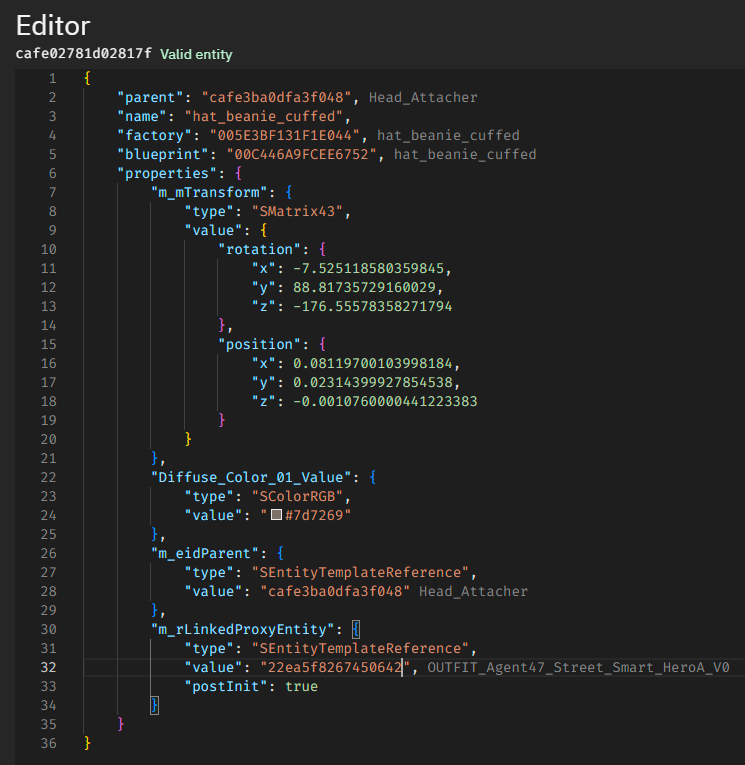
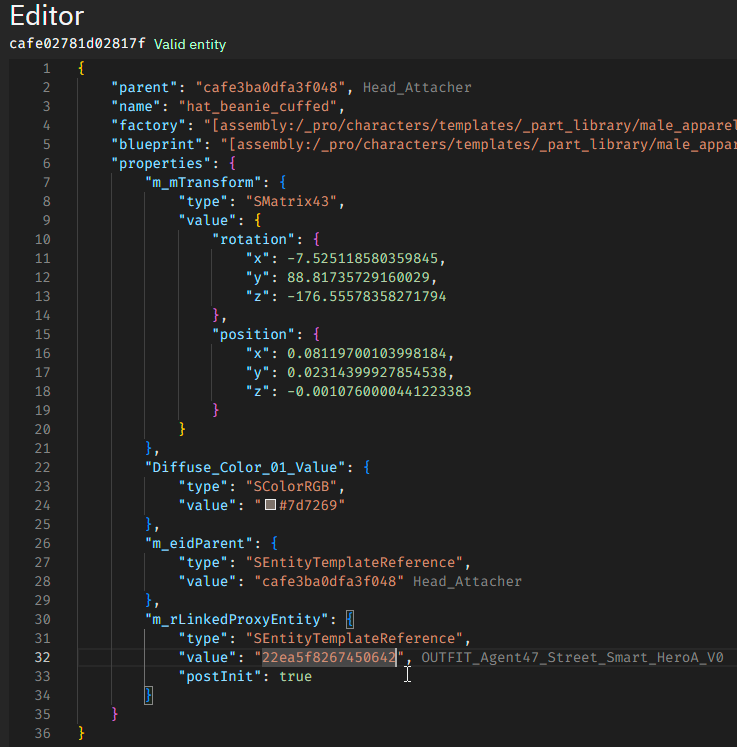
Minor tweaks (#41)
* Hooray we have the hashlist. Update newoutfit.md with this information.

* Please enable file extensions

* Basic Retexture: Prefer to use GlacierKit not RPKG

* Housekeeping

- Refer to GlacierKit and not RPKG Tool
- Prefer to search the agent47_outfits.template? folder instead of a Google Spreadsheet
- Minor other corrections and changes

diff --git a/docs/modding/suitmodding/basicretexture.md b/docs/modding/suitmodding/basicretexture.md
@@ -7,7 +7,7 @@ description: Basic Retexture
 
 For this tutorial, we will go over a basic texture override for a suit. In broad steps, this is what we will do:
 
--   Extract the texture we're looking for with RPKG Tool
+-   Extract the texture we're looking for with GlacierKit
 -   Convert the texture to a workable .tga with TonyTools
 -   Make our changes to the texture
 -   Come up with a new hash for our texture (so we don't overwrite stock assets; that's bad practice!)
@@ -24,70 +24,69 @@ The diffuse map can basically be said to be the base color of the model. The spe
 
 ## Extract Texture
 
-Begin by opening RPKG Tool and importing your `Runtime` folder. You do this by clicking **Import** -> **Import RPKGs Folder**, and there navigate to your Hitman: World of Assassination install directory and find the `Runtime` folder. Give it a second for the RPKGs to load, and you will now be in the resource view and should see the list of opened file archives.
+Begin by opening GlacierKit. Go to the **Game content** tab, 2nd from the top that looks like an archive box.
 
-Now we need to find the suit that we're looking for. Please refer to [HMBM47's outfit spreadsheet](https://docs.google.com/spreadsheets/d/e/2PACX-1vRDiyiqdRebu0Olvvkr20CDhh6ANxu7FOQZ_O-1YHFN9e6kh0WmpbwDYbfgzevSvc3fO4_4Exu1fmQH/pubhtml#) and you may want to bookmark it in your browser if you plan to spend any length of time modding suits.
+Now we need to find the suit that we're looking for. You can find all of 47's outfits in GlacierKit by opening the **Game content** tab and searching for `agent47_outfits.template?`. This folder contains all of 47's outfits.
 
-Click the tab **chunk0 47 Base Suits** in the spreadsheet and find the **Casual Suit with Gloves** toward the top of the spreadsheet. This is the suit we will be working on for the purposes of this tutorial. More specifically, find its template hash, - `TEMP` -, which the spreadsheet tells us is `00B2741A27743D8D`.
+For this tutorial we will be focusing on the Casual Suit with Gloves which in the files is called `outfit_agent47_bangkok_gloves_heroa_v0.entitytemplate`. Scroll past all the charsets in the list to find it.
 
 :::caution Actor and HeroA
 
-Looking at the spreadsheet, you will find two versions of the suit: one marked in blue called Actor and one marked in red called HeroA. You will always want to edit the HeroA version; this is the suit you actually wear for gameplay. The Actor version is used for cutscenes and things of that nature.
+In the list, you will find two versions of the suit: one called *actor* and one called *heroa*. You will always want to edit the HeroA version; this is the suit you actually wear for gameplay. The Actor version of an outfit is used for NPCs, cutscenes and things of that nature.
 
 :::
 
-In RPKG Tool, click **Search** and paste the `TEMP` hash into the **Search string** box. Wait for a moment, and the tool will search the archives. Expand the last patch of chunk0 in the results, and you will find the `TEMP` file. Click it.
+In GlacierKit paste the `TEMP` hash into the **Search game files...** box. Wait for a moment, and you will find the `outfit_agent47_bangkok_gloves_heroa_v0.entitytemplate` file. Click it.
 
-The `Details` screen on the right side will show information about the file you've selected. Under `Depends on 60 other hash files/resources:`, you will find everything the template file makes use of, including the texture we're looking for.
+The `References` tab on the right side will show information about the file you've selected. You will find everything the template file makes use of, including the texture we're looking for.
 
 :::info Assembly Paths
 
-What you are seeing is a list of obfuscated hashes and their decoded **assembly paths**—basically, where they are in IOI's internal filing system. Not all hashes have been decoded to assembly paths, so you'll sometimes just see a hash and a filetype. So you have no way of knowing what the file is until you search for it and examine it yourself.
+What you are seeing is a list of obfuscated hashes and their decoded **assembly paths**—basically, where they are in IOI's internal filing system.
 
 :::
 
-The file we are looking for **does** have a decoded path, so we can find it simply by reading the list. The file in question is `00E99B14303AC484.TEXT 5F [assembly:/_pro/characters/assets/hero/agent47/textures/male_reg_agent47_bangkok_shirt.texture?/diffuse_a.tex](ascolormap).pc_tex`, and this is the diffuse texture we want. Copy the hash and search for it, just like you searched for the `TEMP` file.
+The file we are looking for is `00E99B14303AC484.TEXT 5F [assembly:/_pro/characters/assets/hero/agent47/textures/male_reg_agent47_bangkok_shirt.texture?/diffuse_a.tex](ascolormap).pc_tex`, and this is the diffuse texture we want. You should find this a little more than halfway down the list. Click it when you find it.
 
-Find `00E99B14303AC484.TEXT` in the search results, right-click it, and choose **EXTRACT 00E99B14303AC484.TEXT**. Place it somewhere that's easy to get to. RPKG tool will also export a meta file along with it; you can delete that later as we won't need it.
+![The shirt diffuse texture opened](/img/suitmodding/basicretexture/shirt_texture.png)
 
-We're not completely done yet; look in the `Details` screen, specifically what the `TEXT` depends on.
+Click **Extract file**. Place it somewhere that's easy to get to. GlacierKit will also export a meta file along with it; you can delete that as we won't need it.
 
-```
-Depends on 1 other hash files/resources:
-  - 0091D8EF5EAF2E40.TEXD 9F [assembly:/_pro/characters/assets/hero/agent47/textures/male_reg_agent47_bangkok_shirt.texture?/diffuse_a.tex](ascolormap).pc_mipblock1
-```
+We're not completely done yet; look in the `References` tab, and you will find a `TEXD` file as well.
 
-We will also need to export this `TEXD` file. Glacier 2's textures always come in pairs: the `TEXT` contains a scaled down version of the texture for fast streaming and the `TEXD` contains the full sized texture, both files have their own [mipmaps](https://en.wikipedia.org/wiki/Mipmap). HMTextureTools will still need both files as the `TEXT` file contains important metadata which the `TEXD` lacks. Extract this TEXD right next to its TEXT in the folder.
+We will also need to export this `TEXD` file. Glacier 2's textures always come in pairs: the `TEXT` contains a scaled down version of the texture for fast streaming, and the `TEXD` contains the full sized texture, both files have their own [mipmaps](https://en.wikipedia.org/wiki/Mipmap). HMTextureTools will still need both files as the `TEXT` file contains important metadata which the `TEXD` lacks. Extract this TEXD right next to its TEXT in the folder.
 
 ## Convert the Texture to .tga
 
-For this step we will be using `HMTextureTools.exe` from TonyTools to convert our `TEXT` and `TEXD` to a format we can actually work with: TARGA.
+For this step we will be using `HMTextureTools.exe` from TonyTools, to convert our `TEXT` and `TEXD` to a format we can actually work with: TARGA.
 
 HMTextureTools is a **command-line interface program**, meaning it does **not have a user interface** and simply running the .exe will do nothing. You will need to open the Command Prompt in the TonyTools folder or create a `.BAT` file in the TonyTools folder. This is an **example** of the command you should run:
 
 ```batch
-HMTextureTools.exe convert H3 "c:\path\to\00E99B14303AC484.TEXT" --texd "c:\path\to\0091D8EF5EAF2E40.TEXD" "c:\path\to\00E99B14303AC484~0091D8EF5EAF2E40.texture.tga"
+HMTextureTools.exe convert H3 "c:\My Extracted Files\00E99B14303AC484.TEXT" --texd "c:\My Extracted Files\0091D8EF5EAF2E40.TEXD" "c:\My Extracted Files\00E99B14303AC484~0091D8EF5EAF2E40.texture.tga"
 ```
 
-Here, we specify to HMTextureTools that we are **converting** a Hitman 3 asset. We specify first the path to the .TEXT file (of course, you should change the paths to where the file is on your system!) Second, we flag that we also have a TEXD and give the path to that file. And finally, we specify the output, which is a TGA file.
+Please make sure to change the paths to where the files are on your system.
+
+Here, we specify to HMTextureTools that we are **converting** a Hitman 3 asset. We specify first the path to the .TEXT file. Second, we flag that we also have a TEXD and give the path to that file. And finally, we specify the output, which is a TGA file.
 
 You will notice that we name the TGA file according to this format: `TEXT hash`~`TEXD hash`.texture.tga
 
-This is by design; Simple Mod Framework has the capability to convert the .tga **back** to a `TEXT` and `TEXD`, using the information in the filename, which includes the .texture.tga ending. This saves us the trouble of having to do that ourselves as mod creators.
+This will let Simple Mod Framework convert the .tga **back** to a `TEXT` and `TEXD` pair, using the information in the filename, which includes the .texture.tga ending. This saves us the trouble of having to do it ourselves as mod creators.
 
-HMTextureTools will also produce a .tonymeta file. Rename the extension to .meta and we will be ready to move on.
+HMTextureTools will also produce a .tonymeta file. Rename this extension to .meta and we will be ready to move on.
 
 ## Edit the .tga
 
-Open the .tga in your favorite image editing program and get creative. Save it when you're done.
+Open the .tga in your favorite image editing program and get creative. Edit it to your hearts content and save it when you're done.
 
 ## Make up New Hashes
 
 Now we have the suit's diffuse texture and we've made our changes to it. Is it time to bring it back into the game? Not quite; simply **replacing** stock assets is a dirty way of doing things, and the consequences of doing so can be difficult to anticipate. If it happens that another item in the game uses the texture, things can look really crazy in ways that you didn't intend. The correct procedure is to introduce it to the game as a new texture and edit the outfit to use our new texture.
 
-So we need to figure out a new `TEXT` hash and a new `TEXD` hash. RPKG Tool has something that will help us do that, so open RPKG Tool, click `Utilities`, and choose `Hash Calculator`.
+So we need to figure out a new `TEXT` hash and a new `TEXD` hash. GlacierKit has something that will help us do that, so open GlacierKit, and click the `Text tools` tab, the 2nd from the bottom.
 
-Anything you enter in the left field will be hashed, and the output will be shown in the right field, line by line. Now consider the `TEXT` and `TEXD` we've extracted. Their assembly paths are, respectively:
+Anything you enter in the **Hash calculator** field will be hashed, and the output will be shown in the **Hex** and **Decimal** field. We want the hex number though. Now consider the `TEXT` and `TEXD` we've extracted. Their assembly paths are, respectively:
 
 -   \[assembly:/\_pro/characters/assets/hero/agent47/textures/male_reg_agent47_bangkok_shirt.texture?/diffuse_a.tex](ascolormap).pc_tex
 -   \[assembly:/\_pro/characters/assets/hero/agent47/textures/male_reg_agent47_bangkok_shirt.texture?/diffuse_a.tex](ascolormap).pc_mipblock1
@@ -103,15 +102,15 @@ This means that Simple Mod Framework, when applying the mod, will use this infor
 
 ## Patch the Texture Change in the Outfit
 
-Now that we have an entirely new texture, it's time to use it. Open GlacierKit.
+Now that we have an entirely new texture, it's time to use it.
 
 Let us first set up our mod project. Navigate to your Simple Mod Framework folder and open the `Mods` folder. Create a new folder in here called **MyName.MyCoolShirt**. *(Good convention suggests that you name your mod folders with your username, a period, and the mod's name, no spaces.)* Go into this folder and create a folder called **content**. In the content folder, create a new folder called **chunk0**. All the game's assets are segmented into chunks, it's not important to know right now but if you are curious you can [see this article](../../glacier2/chunkdata.md).
 
 To recap, that folder structure is MyName.MyCoolShirt ➡ content ➡ chunk0.
 
-With GlacierKit started, we will need to select this mod folder. Click the big button labeled **Select a project**. Navigate to the **MyName.MyCoolShirt** folder you just made and select it.
+Open GlacierKit. We will need to select this mod folder. In the **Files** tab at the top, click the big button labeled **Select a project**. Navigate to the **MyName.MyCoolShirt** folder you just made and select it.
 
-Go to the **Game content** tab, second from the top that looks like a box. Remember the hash for the Casual Suit's `TEMP`? That's right, `00B2741A27743D8D`—enter that into the search box and hit enter. In the tree you will find `outfit_agent47_bangkok_gloves_heroa_v0.entitytemplate`, buried in a bunch of folders. Click it and you will see a bunch of information about it. Click the **Open in editor** button.
+Go to the **Game content** tab, second from the top that looks like a box. Remember what the Casual Suit was called? That's right, `bangkok_gloves`—enter that into the search box and hit enter. In the tree you will find `outfit_agent47_bangkok_gloves_heroa_v0.entitytemplate`. Click it and you will see a bunch of information about it. Click the **Open in editor** button.
 
 Expand the root OUTFIT entity in the tree. What you see in the tree is what makes up the outfit. Model parts, material overrides, cloth collisions, and things like that.
 
@@ -227,7 +226,7 @@ Paste the following info into it. If GlacierKit asks for permission to access yo
     "name": "My Cool Shirt",
     "description": "Makes the Casual Suit totally rad.",
     "authors": ["My Name"],
-    "frameworkVersion": "2.33.22",
+    "frameworkVersion": "2.33.27",
     "version": "1.0.0",
     "contentFolders": ["content"]
 }
@@ -239,7 +238,7 @@ If you edit the manifest with GlacierKit or Visual Studio Code, they will use th
 
 :::
 
-`frameworkVersion` is the version of the framework you are currently using. At the time of writing, the latest version is 2.33.22.
+`frameworkVersion` is the version of the framework you are currently using. At the time of writing, the latest version is 2.33.27.
 
 `contentFolders` in the manifest tells Simple Mod Framework what folders will be used for mod content.
 

diff --git a/docs/modding/suitmodding/newoutfit.md b/docs/modding/suitmodding/newoutfit.md
@@ -65,8 +65,6 @@ The outfits' entry in the outfit brick also dictates things like:
 
 There is also a brick called `globaldata`. This is a brick that the game always loads, and it includes important basic gameplay elements. This includes 47's starter outfits and any outfit you can go into a level with.
 
-In previous tutorials we directed you to HMBM47's [Hitman 3 Outfits Spreadsheet](https://docs.google.com/spreadsheets/d/e/2PACX-1vRDiyiqdRebu0Olvvkr20CDhh6ANxu7FOQZ_O-1YHFN9e6kh0WmpbwDYbfgzevSvc3fO4_4Exu1fmQH/pubhtml#) of game outfits, which, while a really good resource, is also a little outdated. If you cannot find an outfit you are looking for in the spreadsheet, try looking in `globaldata`.
-
 ### Character set
 
 As we mentioned the outfit brick references a character set. Often this is shortened to `CHARSET` in the files.
@@ -135,7 +133,7 @@ Feel free to paste the following into your manifest to get started.
     "name": "Street Smart",
     "description": "A Street Smart outfit for 47.",
     "authors": ["My Name"],
-    "frameworkVersion": "2.33.22",
+    "frameworkVersion": "2.33.27",
     "version": "1.0.0",
     "contentFolders": ["content"],
     "blobsFolders": ["blobs"]
@@ -144,7 +142,7 @@ Feel free to paste the following into your manifest to get started.
 
 ## The charset
 
-We carry on by making the suit's charset. We can use IOI's work as a base for this. In the game files tab search for `signaturesuit`.
+We carry on by making the suit's charset. We can use IOI's work as a base for this. In the game files tab search for `signaturesuit`. Under the `characters` folder you can minimize `assets` as we don't want anything in there.
 
 ![Searching for the signature suit charset](/img/suitmodding/newoutfit/search_charset.png)
 
@@ -194,7 +192,15 @@ At this point, our outfit is just the stock signature suit. So let's clean out a
 
 ### Hat
 
-Let's give his cold head a nice warm beanie. In the game content tab, switch the filter from **All** to **Templates**. Then search for `beanie`. You will find a factory - `TEMP` - without a path called hat_beanie_cuffed (005E3BF131F1E044). Let's click that to open its resource overview.
+Let's give his cold head a nice warm beanie. In the game content tab, switch the filter from **All** to **Templates**. Then search for `beanie`. You will get quite a few results. But we want to focus on the `assembly:/_pro/characters/templates/_part_library/male_apparel` folders. You can close any other folders you find.
+
+:::info Parts library
+
+The `_part_library` folder in particular under `templates` is a great resource for clothing. You can find this easily by just searching `library` later on when you want to make your own outfits.
+
+:::
+
+Click `hat_beanie_cuffed.entitytemplate` under the `male_apparel_headwear_prim.template?` folder to open its resource overview.
 
 ![hat_beanie_cuffed resource overview.](/img/suitmodding/newoutfit/beanie_overview.png)
 
@@ -206,7 +212,7 @@ We briefly mentioned this toward the end in the [Patching suits with new parts](
 
 :::
 
-The positioning and scaling for *hats* to look good on 47's head can be very specific, so it would be prudent to copy it from some other HeroA outfit. Click **Reverse dependencies** in the beanie's resource overview and you'll see a list of outfits that uses the beanie. Let's click the first HeroA outfit in the list, which happens to be `outfit_flamingo_worker_journalist_m_heroa_v4`. Open this outfit in the editor.
+The positioning and scaling for *hats* to look good on 47's head can be very specific, so it would be prudent to copy it from some other *HeroA* outfit. Click **Reverse dependencies** in the beanie's resource overview and you'll see a list of outfits that uses the beanie. Let's click the first HeroA outfit in the list, which happens to be `outfit_flamingo_worker_journalist_m_heroa_v4`. Open this outfit in the editor.
 
 Expand the `Head_Attacher` entity, there's our beanie. We don't want the headphones though, so right click them and delete them.
 
@@ -220,7 +226,7 @@ Compare for yourself first. Do you see it?
 
 In `Head_Attacher`, the properties `m_linkedEntity` and `m_eidParent`, and in `hat_beanie_cuffed`, the property `m_rLinkedProxyEntity` have all had their values nulled. Why is that?
 
-Well, these values all pointed to the root entity of the journalist outfit, whose ID was `1351129995b8231f`. This entity doesn't exist in our custom outfit, so GlacierKit nulls these values when pasting the entity. These properties are essential for the attacher and the hat to work, so we will need to supply the ID of our root entity into these values ourselves. As you copy and paste entities back and forth when making mods, take great care that you are hooking up property values correctly after pasting.
+Well, these values all pointed to the root entity of the journalist outfit, whose ID was `1351129995b8231f`. This entity doesn't exist in our custom outfit, so GlacierKit nulls these values when pasting the entity. These properties are *essential* for the attacher and the hat to work, so we will need to supply the ID of our root entity into these values ourselves. As you copy and paste entities back and forth when making mods, *take great care* that you are hooking up property values correctly after pasting. Always compare with the source to see how it's hooked up.
 
 Right click the root `OUTFIT_Agent47_Street_Smart_HeroA_V0` entity and click **Copy ID**.
 
@@ -234,7 +240,9 @@ That's all we need to do for the hat. Save your changes and let's look for a jac
 
 ### Jacket, shirt and hands
 
-Back to the game content tab, again with the filter on **Templates**, search for `jacket_bomber`. Click the first jacket_bomber_open `TEMP` in the list (00ED542C09DFC9F4). This one is also in chunk0, great! You will find that plenty of clothing templates are in chunk0 in fact, IOI did this to make assembling NPCs and outfits easier for themselves.
+Back to the game content tab, again with the filter on **Templates**, search for `jacket_bomber`. You will get quite a few results here, but like before we want to focus on the `assembly:/_pro/characters/templates/_part_library/male_apparel` folders. You can close any other folders you find.
+
+Click `jacket_bomber_open.entitytemplate` under the `male_reg_apparel_torso_l02.template?` folder under `male_apparel`. This one is also in chunk0, great!
 
 Again go into **Reverse references** to see the outfits that make use of the template. Let's click `outfit_raccoon_civilian_bankcustomer_m_actor_v8.entitytemplate` and open that outfit in the editor.
 
@@ -254,11 +262,11 @@ Let's recolor the jacket so it's not a boring beige. Click Jacket_Bomber_Open an
 
 ### Jeans
 
-Let's find a pair of jeans and shoes as well. Again in the game content tab with the filter on **Templates** search for `jeans`.
+Let's find a pair of jeans and shoes as well. Again in the game content tab with the filter on **Templates** search for `jeans`. Once again you can close the `assets` folder and focus on `male_apparel` under `templates/_part_library`.
 
-The second `pants_jeans_skinny (00468CE157B575D3)` in the list will do. The first one, if you examine reverse references, you will notice is for female models, so that won't work.
+`pants_jeans_skinny.entitytemplate` will do.
 
-Let's go into the reverse reference `outfit_fox_worker_tech_m_actor_v1.entitytemplate` and open it in the editor. You know the deal by now. Copy the `Pants_Jeans_Skinny` entity from here, and paste it into our outfit. Do the same for `Shoes_Sneakers_Skate`.
+Let's go into the reverse reference `outfit_fox_worker_tech_m_actor_v1.entitytemplate` and open it in the editor. You know the deal by now. Copy the `Pants_Jeans_Skinny` entity from here, and paste it into our outfit. This outfit has a pair of sneakers as well we can use. So do the same for `Shoes_Sneakers_Skate`.
 
 With that, we are basically done.
 
@@ -573,7 +581,7 @@ Do the same with the path to your description `.sweetline`, replacing `"1"` in t
     "name": "Street Smart",
     "description": "A Street Smart outfit for 47.",
     "authors": ["My Name"],
-    "frameworkVersion": "2.33.22",
+    "frameworkVersion": "2.33.27",
     "version": "1.0.0",
     "contentFolders": ["content"],
     "blobsFolders": ["blobs"],
@@ -612,7 +620,7 @@ Open your outfit file in GlacierKit.
 Copy the following textbox (it is an entity) and paste it into the root `OUTFIT_Agent47_Street_Smart_HeroA_V0` entity by selecting Clipboard and clicking Paste.
 
 ```json
-{"rootEntity":"cafe1c73325d6168","data":{"cafe1c73325d6168":{"parent":"8d2dd8c9d88913be","name":"FX_Hitman_Wet_Logic_Character","factory":"0067CFB703A80787","blueprint":"00AA88C960CD2080","properties":{"HeadMaterialToOverride":{"type":"ZRuntimeResourceID","value":{"resource":"009F7978C601815A","flag":"5F"}},"HeadMaterialOverride":{"type":"TArray<SEntityTemplateReference>","value":[],"postInit":true}},"events":{"HitmanWetness":{"T":["cafeb592e0ab9249","cafedc850188fd63","cafe57b613171dc2","cafee50db419698b"]}}},"cafe57b613171dc2":{"parent":"cafe1c73325d6168","name":"Lerp roughness fabric","factory":"[modules:/zmathlerp.class].pc_entitytype","blueprint":"[modules:/zmathlerp.class].pc_entityblueprint","properties":{"m_A":{"type":"float32","value":1.0},"m_fT":{"type":"float32","value":0.0},"m_B":{"type":"float32","value":2.0}},"events":{"Lerp":{"ConstantVector1D_14_Value":[]}}},"cafedc850188fd63":{"parent":"cafe1c73325d6168","name":"Lerp bumpmap","factory":"[modules:/zmathlerp.class].pc_entitytype","blueprint":"[modules:/zmathlerp.class].pc_entityblueprint","properties":{"m_fT":{"type":"float32","value":0.0},"m_B":{"type":"float32","value":0.30000001192092896}},"events":{"Lerp":{"ConstantVector1D_06_Value":[]}}},"cafee50db419698b":{"parent":"cafe1c73325d6168","name":"Lerp roughness other","factory":"[modules:/zmathlerp.class].pc_entitytype","blueprint":"[modules:/zmathlerp.class].pc_entityblueprint","properties":{"m_B":{"type":"float32","value":0.4000000059604645},"m_A":{"type":"float32","value":0.0},"m_fT":{"type":"float32","value":0.0}},"events":{"Lerp":{"ConstantVector1D_04_Value":[]}}},"cafeb592e0ab9249":{"parent":"cafe1c73325d6168","name":"Lerp albedo","factory":"[modules:/zmathlerp.class].pc_entitytype","blueprint":"[modules:/zmathlerp.class].pc_entityblueprint","properties":{"m_fT":{"type":"float32","value":0.0},"m_B":{"type":"float32","value":0.20000000298023224}},"events":{"Lerp":{"ConstantVector1D_01_Value":[]}}}}}
+{"rootEntity":"cafe1c73325d6168","data":{"cafe1c73325d6168":{"parent":"8d2dd8c9d88913be","name":"FX_Hitman_Wet_Logic_Character","factory":"[assembly:/_pro/effects/templates/water/fx_water_hitman_wet_logic.template?/fx_hitman_wet_logic_character.entitytemplate].pc_entitytype","blueprint":"[assembly:/_pro/effects/templates/water/fx_water_hitman_wet_logic.template?/fx_hitman_wet_logic_character.entitytemplate].pc_entityblueprint","properties":{"HeadMaterialToOverride":{"type":"ZRuntimeResourceID","value":{"resource":"[assembly:/_pro/characters/assets/_sourcefiles/male_reg_heads_unique/materials/male_reg_head_47_s3.mi].pc_mi","flag":"5F"}},"HeadMaterialOverride":{"type":"TArray<SEntityTemplateReference>","value":[],"postInit":true}},"events":{"HitmanWetness":{"T":["cafeb592e0ab9249","cafedc850188fd63","cafe57b613171dc2","cafee50db419698b"]}}},"cafe57b613171dc2":{"parent":"cafe1c73325d6168","name":"Lerp roughness fabric","factory":"[modules:/zmathlerp.class].pc_entitytype","blueprint":"[modules:/zmathlerp.class].pc_entityblueprint","properties":{"m_A":{"type":"float32","value":1.0},"m_fT":{"type":"float32","value":0.0},"m_B":{"type":"float32","value":2.0}},"events":{"Lerp":{"ConstantVector1D_14_Value":[]}}},"cafedc850188fd63":{"parent":"cafe1c73325d6168","name":"Lerp bumpmap","factory":"[modules:/zmathlerp.class].pc_entitytype","blueprint":"[modules:/zmathlerp.class].pc_entityblueprint","properties":{"m_fT":{"type":"float32","value":0.0},"m_B":{"type":"float32","value":0.30000001192092896}},"events":{"Lerp":{"ConstantVector1D_06_Value":[]}}},"cafee50db419698b":{"parent":"cafe1c73325d6168","name":"Lerp roughness other","factory":"[modules:/zmathlerp.class].pc_entitytype","blueprint":"[modules:/zmathlerp.class].pc_entityblueprint","properties":{"m_B":{"type":"float32","value":0.4000000059604645},"m_A":{"type":"float32","value":0.0},"m_fT":{"type":"float32","value":0.0}},"events":{"Lerp":{"ConstantVector1D_04_Value":[]}}},"cafeb592e0ab9249":{"parent":"cafe1c73325d6168","name":"Lerp albedo","factory":"[modules:/zmathlerp.class].pc_entitytype","blueprint":"[modules:/zmathlerp.class].pc_entityblueprint","properties":{"m_fT":{"type":"float32","value":0.0},"m_B":{"type":"float32","value":0.20000000298023224}},"events":{"Lerp":{"ConstantVector1D_01_Value":[]}}}}}
 ```
 
 You should now have an `FX_Hitman_Wet_Logic_Character` entity in the tree.

diff --git a/docs/modding/suitmodding/addingparts.md b/docs/modding/suitmodding/addingparts.md
@@ -18,15 +18,15 @@ And make sure you have enabled the **developer mode** in Simple Mod Framework. T
 
 ## Find a Suit to Modify
 
-We will once again consult [HMBM47's Outfit Spreadsheet](https://docs.google.com/spreadsheets/d/e/2PACX-1vRDiyiqdRebu0Olvvkr20CDhh6ANxu7FOQZ_O-1YHFN9e6kh0WmpbwDYbfgzevSvc3fO4_4Exu1fmQH/pubhtml#) for this. Bookmark it, if you haven't! For this tutorial, we will be modifying the Absolution Suit with Gloves.
+You can find all of 47's outfits in GlacierKit by opening the **Game content** tab and searching for `agent47_outfits.template?`. This folder contains all of 47's outfits.
 
-Click the tab **chunk0 47 Base Suits** in the spreadsheet and find the **Absolution Suit** at the top of the spreadsheet. Write down its `TEMP`, which the spreadsheet tells us is `0075CC9E284E3236`.
+For this tutorial we will be focusing on the Absolution Suit with Gloves which in the files is called `outfit_agent47_absolution_gloves_heroa_v0.entitytemplate`. Scroll past all the charsets in the list to find it.
 
 ## Decide What to Add
 
-Finding accessories, clothing, and so on to use in your outfits can be as easy as finding an outfit in the game, searching for it in GlacierKit and opening its `TEMP`. From there, you can simply copy and paste the part entity to your own outfit. You can also look for the raw models (so-called `PRIM` files) in the RPKG tool.
+Finding accessories, clothing, and so on to use in your outfits can be as easy as finding an outfit in the game, searching for it in GlacierKit and opening the outfit's `template`. From there, you can simply copy and paste the part entity to your own outfit. You can also look for the raw models (so-called `PRIM` files).
 
-However, that is a little advanced for your first time, so for this tutorial, we will be adding a pair of sunglasses to the Absolution Suit. The easiest way to do that would be to copy and paste from another outfit. We will be using the Italian Suit's sunglasses. Look in the outfit spreadsheet again for the Italian Suit; its `TEMP` is `00444A5FE5DDA137`.
+However, that is a little advanced for your first time, so for this tutorial, we will be adding a pair of sunglasses to the Absolution Suit. The easiest way to do that would be to copy and paste from another outfit. We will be using the Italian Suit's sunglasses. In the files the Italian Suit is called `outfit_agent47_sapienza_heroa_v0.entitytemplate`, it can be found further down in the `agent47_outfits.template?` folder in the game files.
 
 ## Open the Source Outfit
 
@@ -36,7 +36,7 @@ To recap, that folder structure is MyName.AbsoSuitGlasses ➡ content ➡ chunk0
 
 With GlacierKit started, we will need to select this mod folder. Click the big button labeled **Select a project**. Navigate to the **MyName.AbsoSuitGlasses** folder you just made and select it.
 
-Now, we will be opening the Italian Suit to copy its sunglasses entity so we can paste it onto the Absolution suit. Go to the **Game content** tab, second from the top that looks like a box. Then, paste in the Italian Suit's `TEMP` hash in the search bar - `00444A5FE5DDA137` - and hit enter. In the tree you will find `outfit_agent47_sapienza_heroa_v0.entitytemplate`, buried in a bunch of folders. Click it and you will see a bunch of information about it. Click the **Open in editor** button.
+Now, we will be opening the Italian Suit to copy its sunglasses entity so we can paste it onto the Absolution suit. Go to the **Game content** tab, second from the top that looks like a box. Then, search for `agent47_outfits.template?`. In the tree if you scroll past all the charsets you will find `outfit_agent47_sapienza_heroa_v0.entitytemplate`. Click it and you will see a bunch of information about it. Click the **Open in editor** button.
 
 In the tree, expand the parent entity named `OUTFIT_Agent47_Sapienza_HeroA_V0`. We're looking for the sunglasses, which can be found lower in the tree. In this case, the entity is named `Part_Glasses`. By clicking on it, the entity's details will appear in the right tab, like this:
 
@@ -62,7 +62,9 @@ In the tree, expand the parent entity named `OUTFIT_Agent47_Sapienza_HeroA_V0`. 
 }
 ```
 
-As you can see, this is a very simple and straight-forward entity with only two properties. `m_IsHiddenInVR` is self-explanatory; VR users shouldn't see the glasses in front of their face. `m_pMeshResource` dictates what model the bodypart entity should use, which in this case is the Italian Suit's aviator sunglasses. By editing the `resource` parameter, you can use any `PRIM` as a body part. The assembly path for the sunglasses has been properly decoded, so we can see it here in the resource key. If it hadn't been decoded, we would be seeing a hash instead.
+As you can see, this is a very simple and straight-forward entity called a *zbodypartentity*. All it does is make sure a model follows a skeleton rig, the rig being defined in the outfit itself.
+
+It has only two properties. `m_IsHiddenInVR` is self-explanatory; VR users shouldn't see the glasses in front of their face. `m_pMeshResource` dictates what model the bodypart entity should use, which in this case is the Italian Suit's aviator sunglasses. By editing the `resource` parameter, you can use any `PRIM` as a body part as long as it's rigged to a skeleton. We can tell by the ending `.pc_weightedprim` that this is a model rigged to a skeleton, or *weighted*.
 
 Nice, this is what we're looking for.
 
@@ -70,7 +72,7 @@ Right-click Part_Glasses in the tree and mouse over **Clipboard**. Click **Copy*
 
 ## Open the Destination Outfit
 
-Now, let's load the Absolution Suit entity. In the game content search bar to the left, enter the Absolution Suit's `TEMP`, `0075CC9E284E3236` and hit enter. Click `outfit_agent47_absolution_gloves_heroa_v0.entitytemplate` in the search results and then click **Open in editor**. The entity will be opened as a new tab.
+Now, let's load the Absolution Suit entity. In the game content search bar to the left, click `outfit_agent47_absolution_gloves_heroa_v0.entitytemplate` in the search results and then click **Open in editor**. The entity will be opened as a new tab.
 
 With the Part_Glasses entity you copied in your clipboard, right-click the root entity `OUTFIT_Agent47_Absolution_Gloves_HeroA_V0`, mouse over **Clipboard** and click **Paste**. Expand the entity and look in the tree, and you should now see Part_Glasses further down.
 
@@ -93,7 +95,7 @@ Paste the following info into it. If GlacierKit asks for permission to access yo
     "name": "Absolution Suit with Glasses",
     "description": "Makes the Absolution Suit much cooler.",
     "authors": ["My Name"],
-    "frameworkVersion": "2.33.22",
+    "frameworkVersion": "2.33.27",
     "version": "1.0.0",
     "contentFolders": ["content"]
 }
@@ -105,7 +107,7 @@ If you edit the manifest with GlacierKit or Visual Studio Code, they will use th
 
 :::
 
-`frameworkVersion` is the version of the framework you are currently using. At the time of writing, the latest version is 2.33.22.
+`frameworkVersion` is the version of the framework you are currently using. At the time of writing, the latest version is 2.33.27.
 
 `contentFolders` in the manifest tells Simple Mod Framework what folders will be used for mod content.
 
@@ -130,15 +132,15 @@ And that is how to patch an outfit to add new body parts. Of course, as you can 
 
 ## Addendum
 
-If you have any doubts or difficulties with adding certain things to your outfits, the best question you can ask is, _"how are IOI doing it?"_ You can learn a lot by opening `TEMP` files in GlacierKit and studying the makeup of the outfit. Do not be afraid to open the game content tab, search for an outfit, and study any `TEMP` files you find.
+If you have any doubts or difficulties with adding certain things to your outfits, the best question you can ask is, _"how are IOI doing it?"_ You can learn a lot by opening `template` files in GlacierKit and studying the makeup of the outfit. Do not be afraid to open the game content tab, search for an outfit, and study any `template` files you find.
 
-Something else you can do is open RPKG Tool and search for `PRIM` files named after articles of clothing, such as jacket, shirt, pants, shoes, etc. From there, you can select a `PRIM` that seems interesting, and in the 3D Viewer tab, you can see what the clothing looks like, and if you want to incorporate it into an outfit, you can see how IOI implemented the model by looking at the reverse hash depends in the Details tab. Under the reverse hash depends, you should see a list of `TEMP` outfit files. By opening any of them in GlacierKit and looking in the tree, you can find the clothing's entity.
+Something else you can do is search for models named after articles of clothing, such as jacket, shirt, pants, shoes, etc. From there, you can select a model that seems interesting, and in the preview, you can see what the clothing looks like, and if you want to incorporate it into an outfit, you can see how IOI implemented the model by looking at the **Reverse references**. You should see a list of outfit files. By opening any of them and looking in the tree, you can find the clothing's entity.
 
-In seasons 2 and 3 of Hitman, IO switched to a more templated model of building outfits. Rather than having a body part entity in the outfit pointing to a model, they will usually have an entity pointing to a jacket template, which contains the model, cloth collisions, materials, and many other things, all in one, to streamline their development of outfits.
+In seasons 2 and 3 of Hitman, IO switched to a more templated model of building outfits. Rather than having a body part entity in the outfit pointing to a model, they will usually have an entity pointing to a jacket template, which contains the model, cloth collisions, materials, and many other things, all in one, to streamline their development of outfits. These can by and large be found under the `assembly:/_pro/characters/templates/_part_library/` folder.
 
 It is also worth mentioning that seasons 2 and 3 have a different skeleton compared to season 1. So, introducing models from season 1 to an outfit built on a season 2 or 3 skeleton, or vice versa, will look completely bizarre and broken. There are ways to get around that by converting the model to a new skeleton with [Rebone](../../rebone.md), but that is for advanced users.
 
-And one final note on `PRIM` files: any body parts that you put into your outfit **must be in chunk0** or the game will experience crashes. You can read more about how chunks work [here](../../glacier2/chunkdata.md), but the gist of it is that anything you can wear in a starter suit needs to be in chunk0 for the game to be able to use it on all maps. If you find a model that you really, really want to use for an outfit that just isn't in chunk0, there's still hope. You simply need to add a `dependencies` key to your manifest that tells SMF to move that file to chunk0 when you apply the mod. You just need to add all the hashes you want to move, like this:
+And one final note on models and templates: any body parts that you put into your outfit **must be in chunk0** or the game will experience crashes. You can read more about how chunks work [here](../../glacier2/chunkdata.md), but the gist of it is that anything you can wear in a starter suit needs to be in chunk0 for the game to be able to use it on all maps. If you find a model that you really, really want to use for an outfit that just isn't in chunk0, there's still hope. You simply need to add a `dependencies` key to your manifest that tells SMF to move that file to chunk0 when you apply the mod. You just need to add all the hashes you want to move, like this:
 
 ```json
 {
@@ -147,7 +149,7 @@ And one final note on `PRIM` files: any body parts that you put into your outfit
     "name": "Absolution Suit with Glasses",
     "description": "Makes the Absolution Suit much cooler.",
     "authors": ["My Name"],
-    "frameworkVersion": "2.33.22",
+    "frameworkVersion": "2.33.27",
     "version": "1.0.0",
     "contentFolders": ["content"],
     "dependencies": ["0049F083DC18CC1F", "00087BEFE0EFFF66"] // <----- Right here!

diff --git a/docs/modding/suitmodding/index.md b/docs/modding/suitmodding/index.md
@@ -21,3 +21,5 @@ This is a list of tools that are essential for any kind of Hitman modding. The t
 -   [TonyTools](https://github.com/AnthonyFuller/TonyTools/releases/latest)
 -   A program to read and edit JSON files ([VSCode](https://code.visualstudio.com/Download) is recommended, but any basic code editor will suffice. GlacierKit can also handle JSON files if you can't bother downloading anything else.)
 -   A program to extract and archive ZIP files (such as [7-Zip](https://www.7-zip.org/))
+
+And before you continue on, if you are using Windows, please make sure to [enable file extensions in Windows File Explorer](https://www.google.com/search?q=windows%20file%20explorer%20show%20file%20extensions) as this is *essential* for the work ahead!
